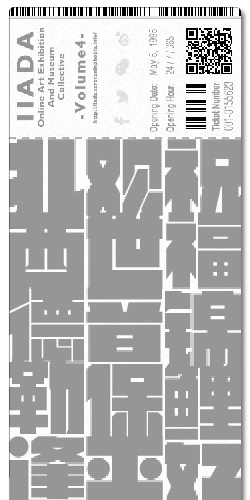
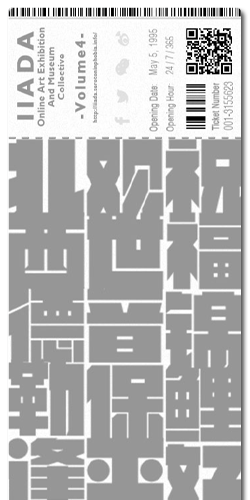
[4] Update ticket and elements position changed

diff --git a/vol4/vol4.css b/vol4/vol4.css
@@ -151,9 +151,10 @@ vertial-line-chn {
   white-space:nowrap;
 }
 [data-scene=cover] vertial-line.volume {
-  top: 100px;
-  left: 630px;
+  top: 200px;
+  left: 638px;
   font-size: 0.8em;
+  opacity: 0;
 }
 [data-scene=cover] vertial-line.iiada-description {
   position: fixed;
@@ -423,7 +424,7 @@ exhibit-info a:hover {
   top: 372px;
 }
 [data-scene=gallery3] .down-info {
-  top: 570px;
+  bottom: 20px;
   left: 72px;
 }
 
